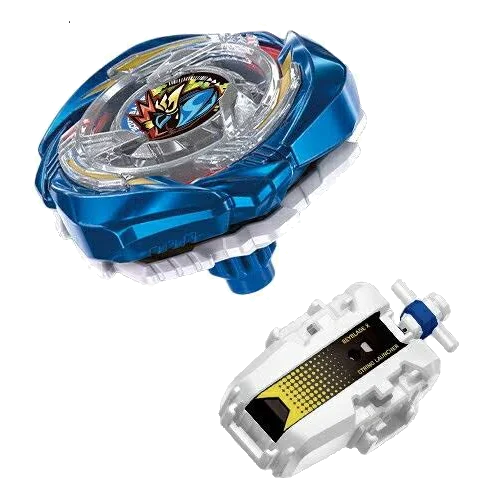
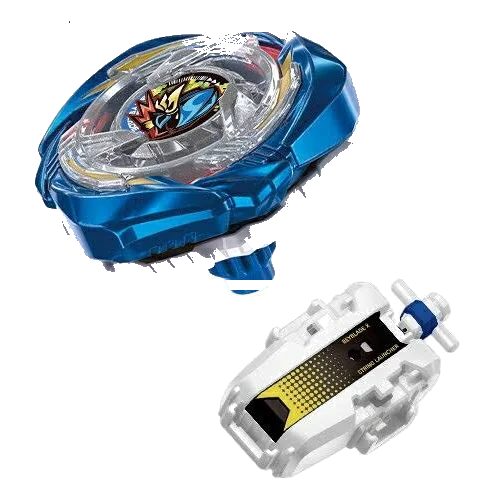
Trim the white fringe around the champion prize

diff --git a/index.html b/index.html
@@ -205,7 +205,7 @@
       <h2><span class="num">賞</span>獎品</h2>
       <div class="prizes">
         <figure class="prize gold">
-          <img src="prize-champion.png" alt="冠軍獎品" />
+          <img src="prize-champion.png?v=2" alt="冠軍獎品" />
           <figcaption>冠軍</figcaption>
         </figure>
         <figure class="prize silver">
